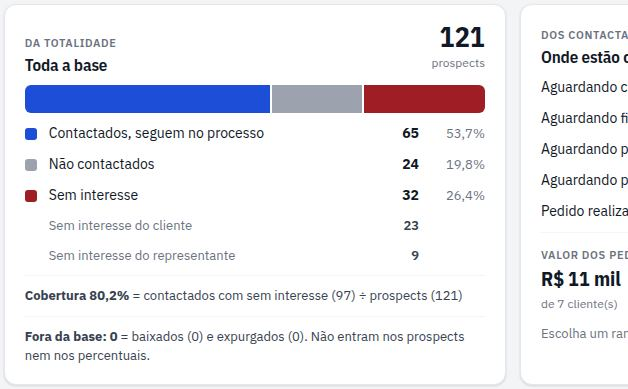
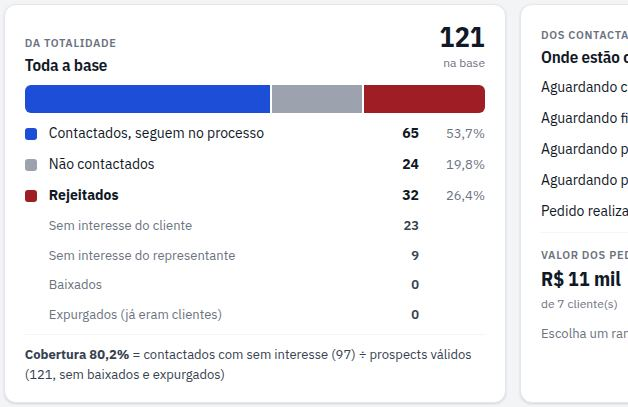
Explorar carteira: card Da totalidade com a base inteira; grade só com os válidos
- Card: contactados, não contactados e Rejeitados (sem interesse do cliente e do representante, baixados e expurgados) somam a base
- Grade (Prospects) e Abrir na Lista principal seguem sem baixados e expurgados

diff --git a/web/js/telas/explorar.js b/web/js/telas/explorar.js
@@ -125,28 +125,28 @@ export async function render(conteudo, { usuario }) {
             h('button', { type: 'button', class: 'secundario pequeno', 'aria-label': `Descer ${NIVEIS[nivel].nome}`, disabled: i === estado.niveis.length - 1, onclick: () => mover(nivel, 1) }, '↓')) : null);
       })) : null);
 
-    // Da totalidade: os prospects da base, sem baixados e expurgados (que ficam fora da base, em Rejeitados), numa barra de 100%:
-    // contactados que seguem no processo, não contactados e sem interesse (do cliente e do representante)
+    // Da totalidade: a base inteira do ramo (inclusive baixados e expurgados) numa barra de 100%: contactados que seguem no processo,
+    // não contactados e Rejeitados, que junta sem interesse do cliente e do representante, baixados e expurgados.
+    // A grade (coluna Prospects) mostra só os válidos: sem baixados e expurgados.
     const contSemSI = ind.contactados - ind.semInteresse;   // contactados que seguem no processo (sem os sem interesse)
     const partes = [
       ['contactados', 'Contactados, seguem no processo', contSemSI, '#1D4ED8'],
       ['nao_contactados', 'Não contactados', ind.status.nao_contactado, '#9CA3AF'],
-      ['sem_interesse', 'Sem interesse', ind.semInteresse, '#9F1D24'],
+      ['rejeitados', 'Rejeitados', ind.semInteresse + ind.inativos, '#9F1D24'],
     ];
-    const tiposRejeitados = [['si_cliente', 'Sem interesse do cliente', ind.siCliente], ['si_representante', 'Sem interesse do representante', ind.siRepresentante]];
+    const tiposRejeitados = [['si_cliente', 'Sem interesse do cliente', ind.siCliente], ['si_representante', 'Sem interesse do representante', ind.siRepresentante],
+      ['baixados', 'Baixados', ind.status.invalido ?? 0], ['expurgados', 'Expurgados (já eram clientes)', ind.status.expurgado ?? 0]];
     const totalidade = h('section', { class: 'cartao exp-grafico', id: 'grafico-totalidade' },
       h('div', { class: 'exp-grafico-topo' }, h('div', {}, h('span', { class: 'tit' }, 'Da totalidade'), h('h2', {}, escolhido.rotulo)),
-        h('div', { class: 'exp-total' }, h('b', {}, n0(ind.base)), h('span', {}, 'prospects'))),
+        h('div', { class: 'exp-total' }, h('b', {}, n0(ind.qtd)), h('span', {}, 'na base'))),
       h('div', { class: 'exp-barra100', role: 'img', 'aria-label': partes.map(([, nome, q]) => `${nome}: ${n0(q)}`).join(', ') },
         partes.filter(([, , q]) => q > 0).map(([chave, nome, q, cor]) => h('span', { dados: { parte: chave }, title: `${nome}: ${n0(q)}`, style: `flex:${q} 1 0;background:${cor}` }))),
       partes.map(([chave, nome, q, cor]) => h('div', { class: 'exp-legenda', dados: { parte: chave } },
-        h('span', { class: 'ponto', style: `background:${cor}` }), h('span', {}, nome),
-        h('b', {}, n0(q)), h('span', { class: 'pct' }, pct(ind.base ? (q / ind.base) * 100 : null)))),
+        h('span', { class: 'ponto', style: `background:${cor}` }), h('span', {}, chave === 'rejeitados' ? h('b', {}, nome) : nome),
+        h('b', {}, n0(q)), h('span', { class: 'pct' }, pct(ind.qtd ? (q / ind.qtd) * 100 : null)))),
       tiposRejeitados.map(([chave, nome, q]) => h('div', { class: 'exp-legenda sub', dados: { parte: chave } }, h('span'), h('span', {}, nome), h('span', { class: 'qtd-sub' }, n0(q)), h('span'))),
       h('p', { class: 'exp-rodape' }, h('b', {}, `Cobertura ${pct(ind.cobertura)}`),
-        ` = contactados com sem interesse (${n0(ind.contactados)}) ÷ prospects (${n0(ind.base)})`),
-      h('p', { class: 'exp-rodape', id: 'fora-da-base' }, h('b', {}, `Fora da base: ${n0(ind.inativos)}`),
-        ` = baixados (${n0(ind.status.invalido ?? 0)}) e expurgados (${n0(ind.status.expurgado ?? 0)}). Não entram nos prospects nem nos percentuais.`));
+        ` = contactados com sem interesse (${n0(ind.contactados)}) ÷ prospects válidos (${n0(ind.base)}, sem baixados e expurgados)`));
 
     // Dos contactados: onde estão os que seguem no processo (% sobre os contactados sem os sem interesse)
     const etapasProcesso = [['Aguardando cadastro', ind.status.aguardando_cadastro, status.aguardando_cadastro?.cor ?? '#6D28D9'],

diff --git a/docs/03-regras-negocio.md b/docs/03-regras-negocio.md
@@ -437,11 +437,11 @@ com o histórico de movimentação completo. Sorteio com semente fixa; nunca rod
   (TIPOLOGIA GTM), Onda, Rota, Subrota. Os níveis são cartões **arrastáveis** (ordenar, incluir, tirar); a ordem fica
   guardada no navegador. Cada nível aberto mostra **todos** os itens, do maior para o menor.
 - O ramo escolhido mostra dois gráficos (no lugar dos cards, de "Clientes por status" e do funil):
-  - **Da totalidade**: os **prospects** do ramo **sem baixados e expurgados** (que ficam fora da base) numa barra de 100%, em 3
-    partes — Contactados que seguem no processo, Não contactados e Sem interesse (do cliente e do representante, com a quantidade
-    de cada um) — e a **Cobertura** = contactados (com os sem interesse) ÷ prospects. Abaixo, **Fora da base**: baixados e
-    expurgados, que não entram nos prospects nem nos percentuais (estão na tela Rejeitados, §16). A coluna Prospects da
-    hierarquia e o botão Abrir na Lista principal usam o mesmo número; no celular, o número rotulado Fora da base.
+  - **Da totalidade**: a **base inteira** do ramo ("na base", inclusive baixados e expurgados) numa barra de 100%, em 3 partes —
+    Contactados que seguem no processo, Não contactados e **Rejeitados**, que junta sem interesse do cliente, sem interesse do
+    representante, baixados e expurgados, com a quantidade de cada um — e a **Cobertura** = contactados (com os sem interesse) ÷
+    prospects válidos (sem baixados e expurgados). Já a **grade** (coluna Prospects) e o botão Abrir na Lista principal mostram só
+    os **válidos**, sem baixados e expurgados; no celular, a hierarquia mostra à parte o número rotulado Fora da base.
   - **Dos contactados**: onde estão os que seguem no processo (contactados sem os sem interesse) — Aguardando cadastro,
     Aguardando financeiro, Aguardando pedido e Pedido realizado, cada um com % — e Valor dos pedidos, Potencial (em
     aberto × % do pipeline × valor médio) e Conversão (vendas ÷ contactados). "Em prospecção" (contato da planilha,
